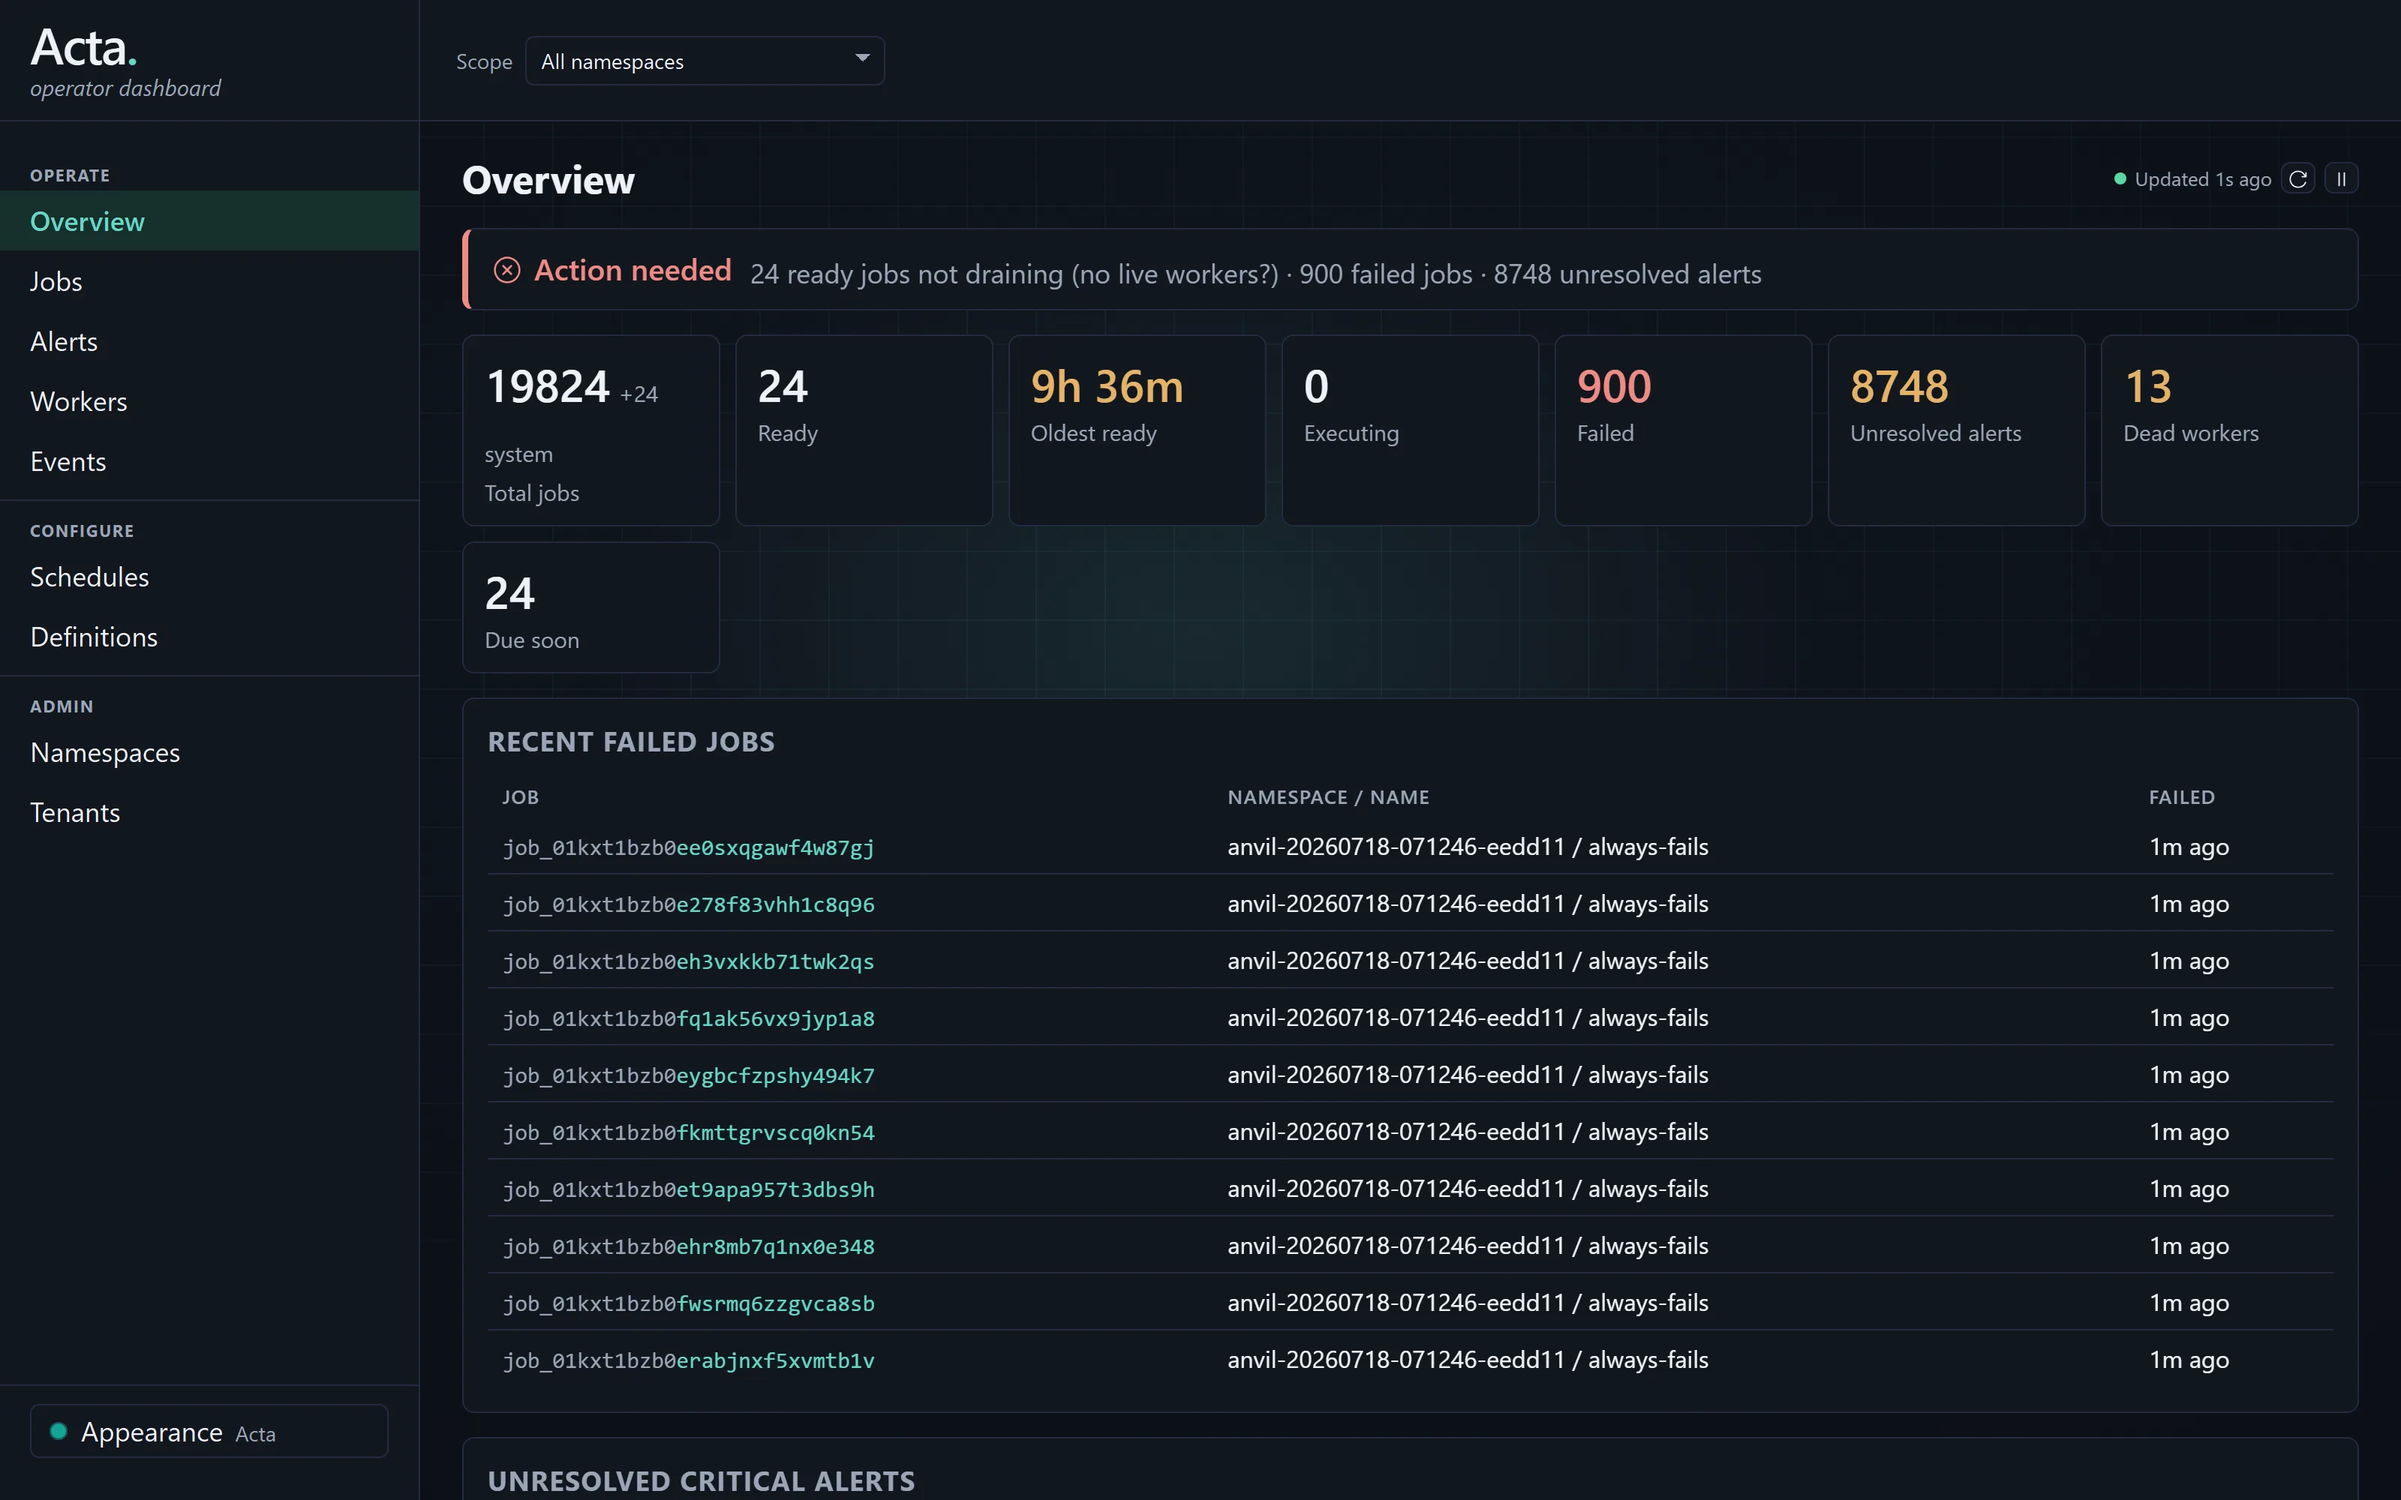
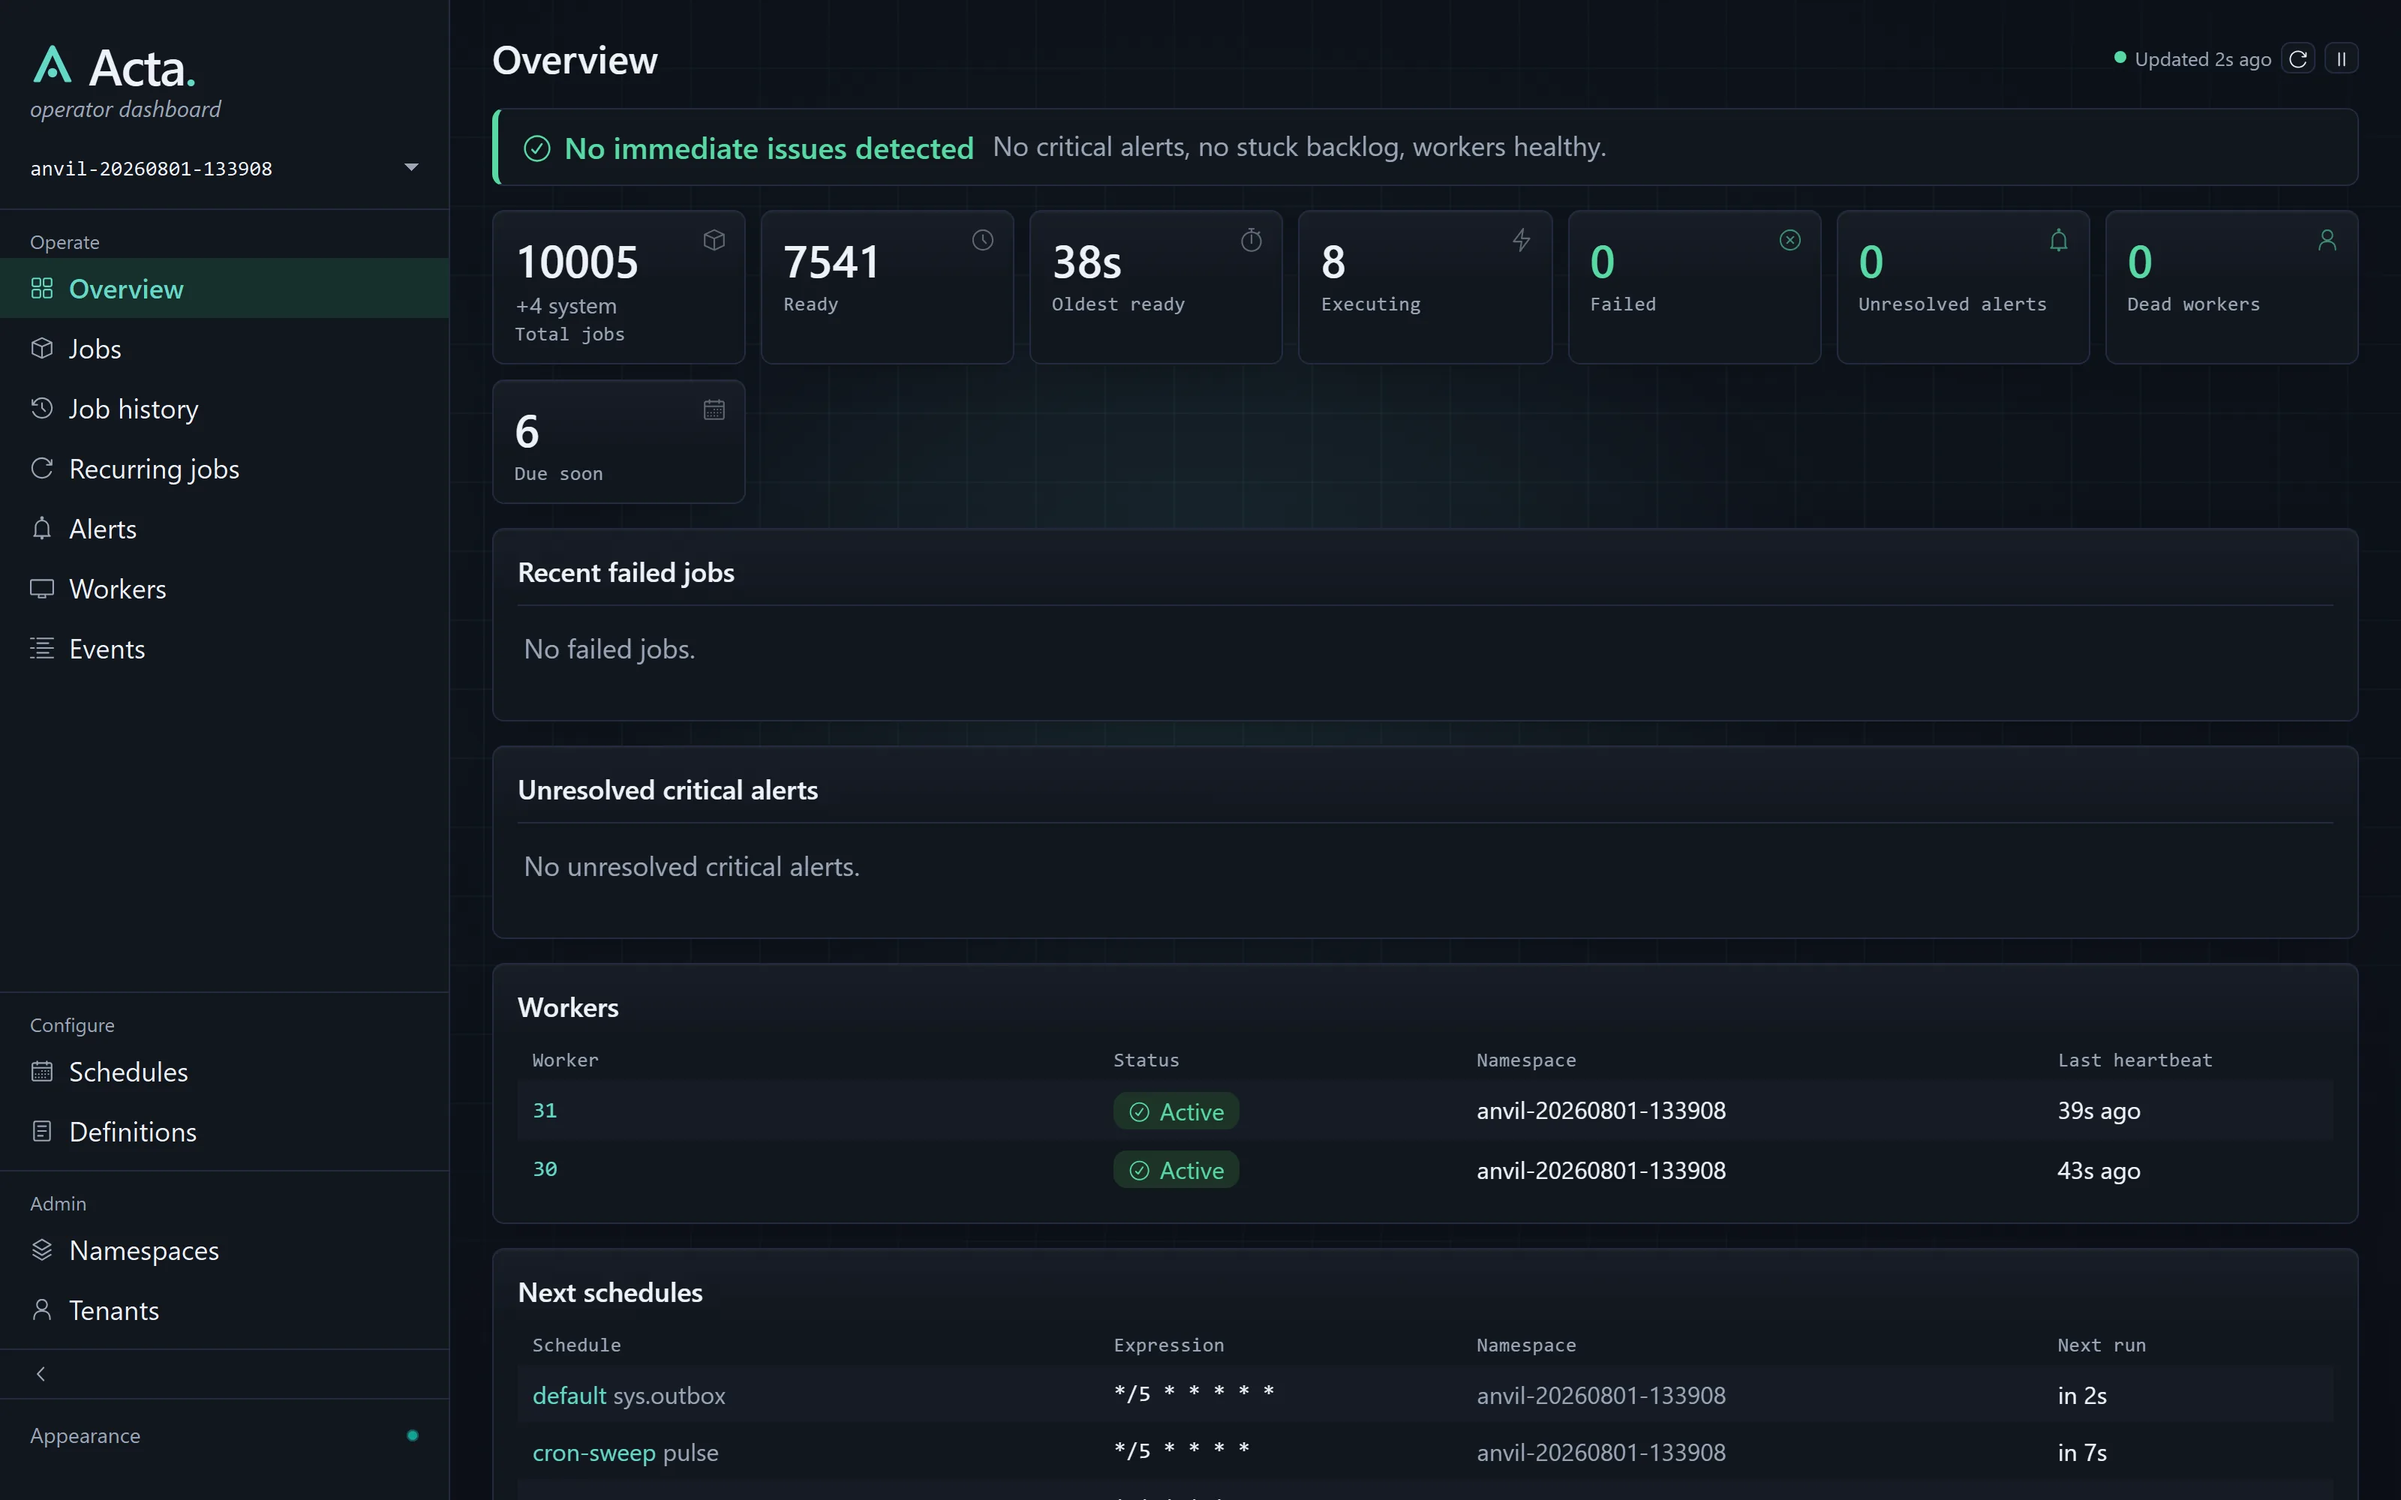
Refresh the landing page dashboard capture

diff --git a/site/index.html b/site/index.html
@@ -535,11 +535,11 @@
       <p class="lede">The embedded dashboard reads the same durable rows you can query yourself (backlog, failures, dead workers with heartbeats, next schedules) and says what needs action. It ships inside your app as a library, local-only by default, with mutating verbs off until you enable them.</p>
       <figure class="shot">
         <div class="shot-media" tabindex="0" aria-label="Dashboard screenshot; horizontally scrollable on small screens">
-          <img src="assets/dash-dark-overview.webp" alt="Acta operator dashboard, dark theme: Overview page with action-needed banner, job counts, failed jobs, dead workers, and unresolved alerts" loading="lazy" width="3200" height="2000" />
+          <img src="assets/dash-dark-overview.webp" alt="Acta operator dashboard, dark theme: Overview page with health verdict, job counts, workers with heartbeats, and next schedules" loading="lazy" width="3200" height="2000" />
         </div>
         <figcaption>
-          <span class="stamp">Field record · Anvil crash lab</span>
-          <span>Captured mid-experiment: 15 worker processes killed on purpose. The ledger shows what died, what failed, and what remains eligible for recovery. <a href="https://github.com/acta-dotnet/acta/blob/main/docs/guide/operator-guide.md">Operator guide →</a></span>
+          <span class="stamp">Field record · Anvil steady run</span>
+          <span>Captured mid-run: 10,000 jobs draining through two workers. The ledger shows the backlog, the oldest ready job, live heartbeats, and the next schedule firings. <a href="https://github.com/acta-dotnet/acta/blob/main/docs/guide/operator-guide.md">Operator guide →</a></span>
         </figcaption>
       </figure>
     </section>
